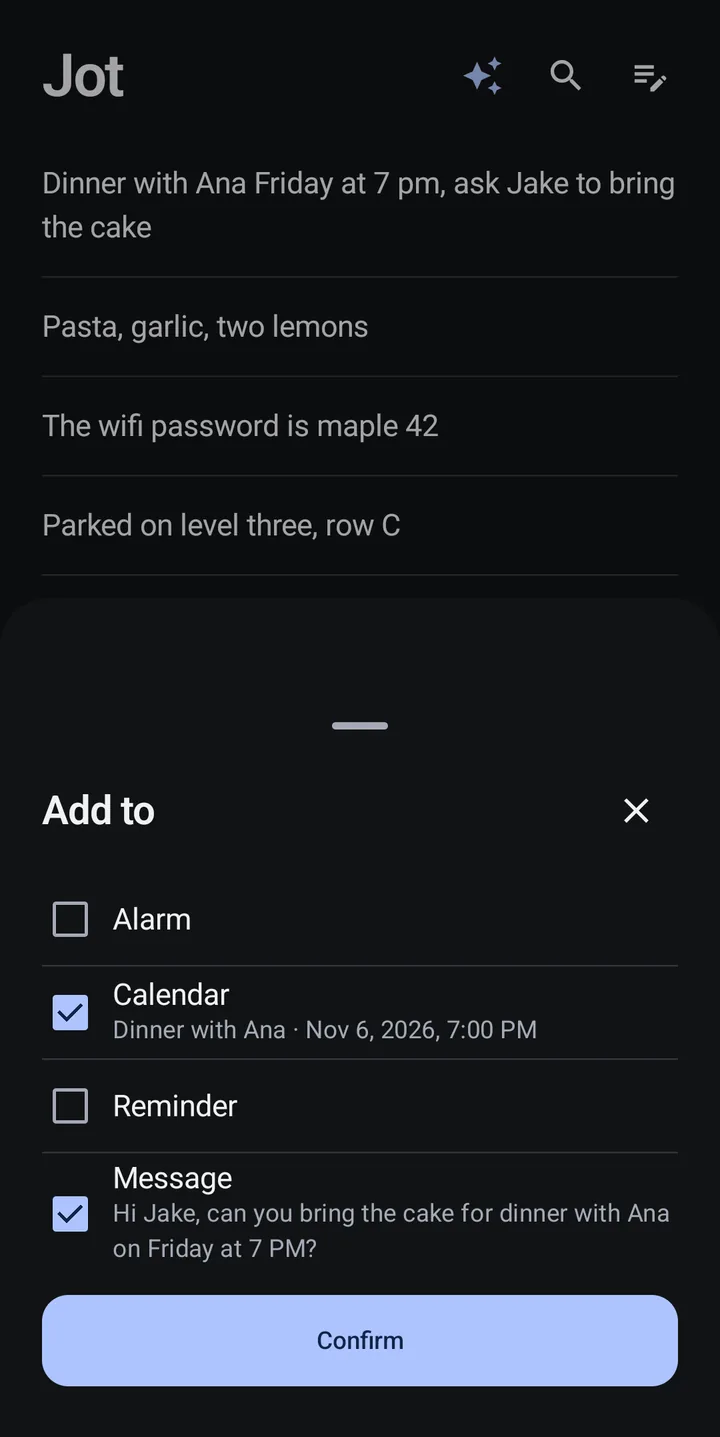
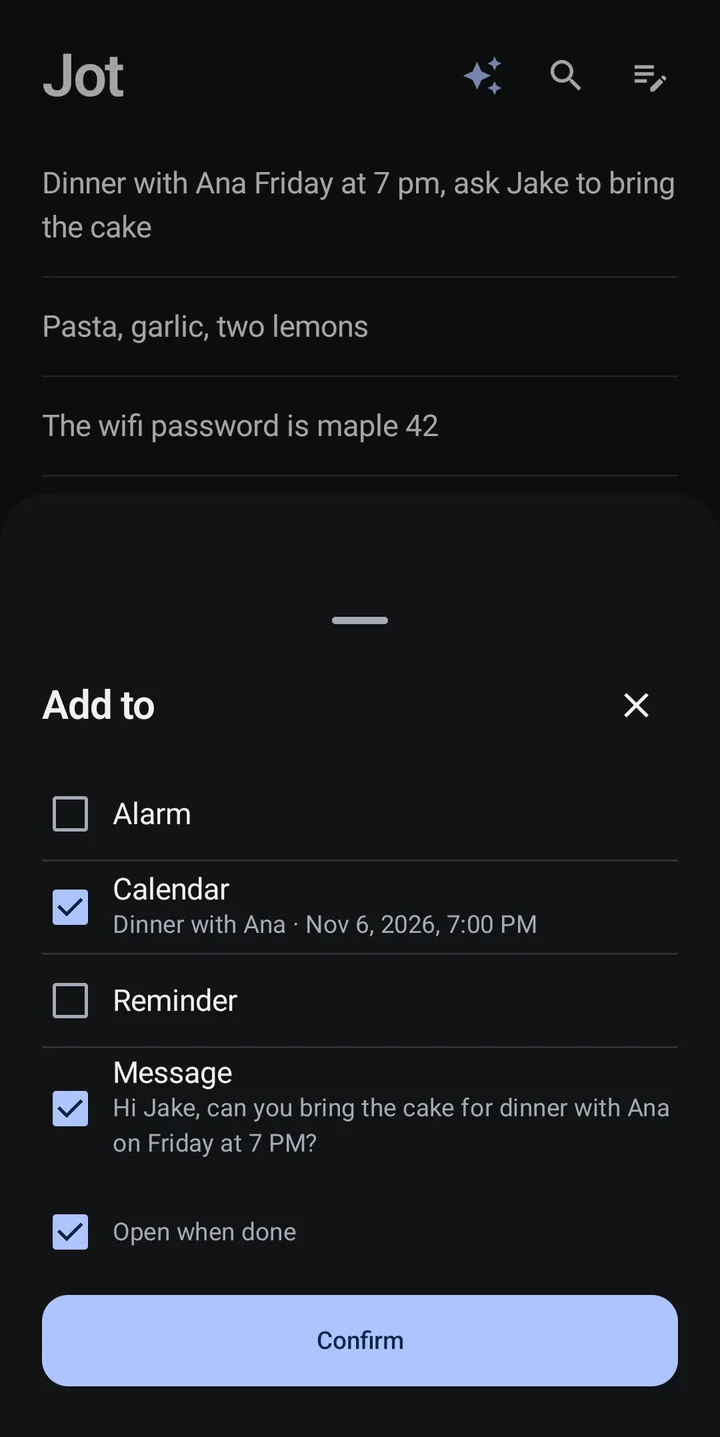
1.2.1: Open when done, and stop leftover fillers silencing the mic
Add a remembered checkbox for opening the result in its app. A filler
line could outlive a closed note, because the model can't be interrupted,
and then cut off the next question before the mic opened. Closing a
spoken offer now discards it instead of leaving a note.

diff --git a/app/src/androidTest/java/com/jot/app/capture/HandOffTest.kt b/app/src/androidTest/java/com/jot/app/capture/HandOffTest.kt
@@ -10,11 +10,15 @@ import android.provider.ContactsContract
 import android.provider.ContactsContract.CommonDataKinds.Phone
 import android.provider.ContactsContract.CommonDataKinds.StructuredName
 import android.util.Log
+import androidx.compose.ui.test.junit4.createEmptyComposeRule
+import androidx.compose.ui.test.onNodeWithText
+import androidx.compose.ui.test.performClick
 import androidx.test.core.app.ActivityScenario
 import androidx.test.ext.junit.runners.AndroidJUnit4
 import androidx.test.platform.app.InstrumentationRegistry
 import com.jot.app.JotApplication
 import com.jot.app.MainActivity
+import com.jot.app.companion.CompanionState
 import com.jot.app.data.ActionKind
 import com.jot.app.ui.Stage
 import org.junit.After
@@ -23,12 +27,14 @@ import org.junit.Assert.assertTrue
 import org.junit.Assume.assumeFalse
 import org.junit.Assume.assumeTrue
 import org.junit.Before
+import org.junit.Rule
 import org.junit.Test
 import org.junit.runner.RunWith
 
 /** Spoken requests go straight to the action, and Jot lands in the app that holds the result. */
 @RunWith(AndroidJUnit4::class)
 class HandOffTest {
+    @get:Rule val compose = createEmptyComposeRule()
     private val instrument = InstrumentationRegistry.getInstrumentation()
     private val context = instrument.targetContext
     private val controller = (context.applicationContext as JotApplication).controller
@@ -64,6 +70,7 @@ class HandOffTest {
 
     @After fun cleanUp() {
         monitors.forEach(instrument::removeMonitor)
+        main { controller.setOpenWhenDone(true) }
         instrument.uiAutomation.adoptShellPermissionIdentity(android.Manifest.permission.WRITE_CONTACTS)
         added.forEach { context.contentResolver.delete(ContactsContract.RawContacts.CONTENT_URI, "${ContactsContract.RawContacts._ID} = ?", arrayOf(it.toString())) }
         instrument.uiAutomation.dropShellPermissionIdentity()
@@ -82,6 +89,7 @@ class HandOffTest {
     }
     private fun offered(timeout: Long = 90_000) { await("the offer", timeout) { controller.state.value.stage == Stage.ACTIONS && !controller.state.value.thinking } }
     private fun answer(words: String) {
+        await("Jot to speak") { VoiceSignals.state.value.speaking }
         await("Jot to finish and listen") { !VoiceSignals.state.value.speaking && VoiceSignals.state.value.capturing }
         VoiceSignals.emit(VoiceEvent.Utterance(words))
     }
@@ -98,6 +106,48 @@ class HandOffTest {
             assertEquals(1, set.hits)
             await("home") { controller.state.value.stage == Stage.HOME }
             assertEquals("Alarm set", controller.state.value.message)
+        }
+    }
+
+    @Test fun uncheckedStaysInJotAndIsRemembered() {
+        val set = watch(AlarmClock.ACTION_SET_ALARM)
+        val shown = watch(AlarmClock.ACTION_SHOW_ALARMS)
+        say("Set an alarm for 7 AM.") {
+            offered(timeout = 3_000)
+            compose.onNodeWithText("Open when done").performClick()
+            await("the choice") { !controller.state.value.openWhenDone }
+            answer("Yes.")
+            await("the alarm") { set.hits == 1 }
+            await("home") { controller.state.value.stage == Stage.HOME }
+            Thread.sleep(1_000)
+            assertEquals(0, shown.hits)
+        }
+        say("Set an alarm for 8 AM.") {
+            offered(timeout = 3_000)
+            assertEquals(false, controller.state.value.openWhenDone)
+        }
+    }
+
+    @Test fun closingASpokenOfferLeavesNoNote() {
+        say("Set an alarm for 9 AM.") {
+            offered(timeout = 3_000)
+            main { controller.close() }
+            await("home") { controller.state.value.stage == Stage.HOME && !controller.state.value.busy }
+            await("no note") { controller.notes.value.none { it.note.text.contains("9 AM") } }
+        }
+    }
+
+    @Test fun closingWhileThinkingLeavesNothingToSayLater() {
+        assumeTrue(controller.companion.state.value == CompanionState.Ready)
+        say("I need to pick up milk and eggs.") {
+            await("the reading") { controller.state.value.thinking }
+            main { controller.close() }
+            await("home") { controller.state.value.stage == Stage.HOME && !controller.state.value.busy }
+            val end = android.os.SystemClock.elapsedRealtime() + 14_000
+            while (android.os.SystemClock.elapsedRealtime() < end) {
+                assertEquals(false, VoiceSignals.state.value.speaking)
+                Thread.sleep(50)
+            }
         }
     }
 
@@ -175,6 +225,9 @@ class HandOffTest {
     }
 
     @Test fun aNoteWithoutAnActionStillReadsBack() {
-        say("Um.") { await("the question") { VoiceSignals.state.value.speaking || VoiceSignals.state.value.capturing } }
+        say("I need to pick up milk and eggs.") {
+            await("the note", 90_000) { controller.state.value.stage == Stage.NOTE && !controller.state.value.thinking }
+            await("Jot to speak") { VoiceSignals.state.value.speaking }
+        }
     }
 }

diff --git a/app/src/main/java/com/jot/app/JotController.kt b/app/src/main/java/com/jot/app/JotController.kt
@@ -23,11 +23,13 @@ import java.util.UUID
 private const val VOICE_WAIT_MS = 45_000L
 private const val ONE_SEC_AFTER_MS = 2_000L
 private const val ALMOST_AFTER_MS = 10_000L
+private const val KEY_OPEN_WHEN_DONE = "open_when_done"
 
 class JotController(private val context: Context) {
     private val scope = CoroutineScope(SupervisorJob() + Dispatchers.Main.immediate)
     private val store = JotStore.get(context)
     private val androidActions = AndroidActions(context, store)
+    private val prefs = context.getSharedPreferences("jot", Context.MODE_PRIVATE)
     private val mutable = MutableStateFlow(JotUiState())
     val state: StateFlow<JotUiState> = mutable.asStateFlow()
     val notes = store.observeNotes().stateIn(scope, SharingStarted.WhileSubscribed(5000), emptyList())
@@ -37,6 +39,7 @@ class JotController(private val context: Context) {
     private var baseAction: ActionRecord? = null
     private var changingMessage = false
     private var choosingContact = false
+    private var filler: Job? = null
     private val contacts = Contacts(context)
     private var book = emptyList<Contact>()
     private var reveal: Intent? = null
@@ -142,7 +145,13 @@ class JotController(private val context: Context) {
         }.also { reading = it }
     }
 
-    private fun forget() { reading?.cancel(); reading = null; readingKeys.clear(); readingGeneration++; settled = null; touched = false }
+    // The model can't be interrupted, so the reading outlives a closed note. Its filler must not, or it talks over the next one.
+    private fun forget() { filler?.cancel(); reading?.cancel(); reading = null; readingKeys.clear(); readingGeneration++; settled = null; touched = false }
+
+    fun setOpenWhenDone(open: Boolean) {
+        prefs.edit().putBoolean(KEY_OPEN_WHEN_DONE, open).apply()
+        update { copy(openWhenDone = open) }
+    }
 
     private suspend fun loadContacts() { book = withContext(Dispatchers.IO) { contacts.all() } }
 
@@ -173,7 +182,7 @@ class JotController(private val context: Context) {
         }
         if (state.value.stage != Stage.ACTIONS || state.value.note?.id != note.id) return
         val plan = ActionKind.entries.associateWith { formFor(ActionRecord("", note.id, it), note) }
-        update { copy(thinking = false, selected = if (touched) selected else result.actions, plan = plan) }
+        update { copy(thinking = false, selected = if (touched) selected else result.actions, plan = plan, openWhenDone = prefs.getBoolean(KEY_OPEN_WHEN_DONE, true)) }
         val today = LocalDate.now()
         val repeat = JotLines.repeats(TimeParser.repeatDays(note.text))
         if (voice) ask(JotLines.offer(state.value.selected) { kind ->
@@ -192,7 +201,8 @@ class JotController(private val context: Context) {
         draftJob?.cancelAndJoin()
         formJob?.cancelAndJoin()
         if (before.form != null && before.note != null && baseAction?.status == ActionStatus.PENDING) store.saveAction(record(before.form, before.note.id, false))
-        if (before.note?.draft == true) store.deleteNote(before.note.id)
+        val offered = before.stage == Stage.ACTIONS && before.voiceSession && fresh && before.selected.isNotEmpty()
+        if (before.note?.draft == true || offered) before.note?.let { store.deleteNote(it.id) }
         queue.clear(); forget(); choosingContact = false; reveal = null; mutable.value = JotUiState()
         VoiceService.send(context, VoiceService.RESUME_WAKE)
     } }
@@ -256,7 +266,7 @@ class JotController(private val context: Context) {
         }
         val summary = done.joinToString(", ").lowercase().replaceFirstChar { it.uppercase() }.ifEmpty { "Saved" }
         auto = false; done.clear()
-        val destination = reveal
+        val destination = reveal.takeIf { prefs.getBoolean(KEY_OPEN_WHEN_DONE, true) }
         reveal = null
         finish(summary)
         destination?.let { intent -> host(activity)?.let { runCatching { it.startActivity(intent) } } }
@@ -434,12 +444,12 @@ class JotController(private val context: Context) {
                 if (companion.state.value != CompanionState.Ready) { review(text, CompanionText.settle(text, null).actions); return }
                 update { copy(thinking = true) }
                 launch {
-                    val filler = scope.launch {
+                    filler = scope.launch {
                         delay(ONE_SEC_AFTER_MS); VoiceService.send(context, VoiceService.SPEAK_HOLD, JotLines.ONE_SEC)
                         delay(ALMOST_AFTER_MS); VoiceService.send(context, VoiceService.SPEAK_HOLD, JotLines.ALMOST_THERE)
                     }
                     val result = withTimeoutOrNull(VOICE_WAIT_MS) { pending.await() }
-                    filler.cancel()
+                    filler?.cancel()
                     if (state.value.stage != Stage.NOTE) return@launch
                     val unchanged = state.value.text == text
                     val heard = result?.note?.takeIf { unchanged } ?: state.value.text

diff --git a/app/src/main/java/com/jot/app/ui/JotScreen.kt b/app/src/main/java/com/jot/app/ui/JotScreen.kt
@@ -602,6 +602,18 @@ private fun ActionChoices(state: JotUiState, callbacks: JotCallbacks) {
             if (kind != ActionKind.entries.last()) HorizontalDivider()
         }
     }
+    if (!state.thinking && state.selected.any { it != ActionKind.REMINDER }) {
+        Row(
+            modifier = Modifier.fillMaxWidth().heightIn(min = 48.dp)
+                .toggleable(value = state.openWhenDone, enabled = !state.busy, role = Role.Checkbox, onValueChange = callbacks.onOpenWhenDone)
+                .padding(horizontal = 4.dp, vertical = 4.dp),
+            verticalAlignment = Alignment.CenterVertically,
+            horizontalArrangement = Arrangement.spacedBy(12.dp),
+        ) {
+            Checkbox(checked = state.openWhenDone, onCheckedChange = null, enabled = !state.busy)
+            Text("Open when done", style = MaterialTheme.typography.bodyMedium, color = MaterialTheme.colorScheme.onSurfaceVariant)
+        }
+    }
     PrimaryAction(
         if (state.selected.isEmpty()) "Done" else "Confirm",
         enabled = !state.busy,

diff --git a/app/src/test/java/com/jot/app/core/CompanionTextTest.kt b/app/src/test/java/com/jot/app/core/CompanionTextTest.kt
@@ -136,6 +136,14 @@ class CompanionTextTest {
         assertFalse(CompanionText.ready("Dinner with Sam at 7 PM"))
     }
 
+    @Test fun clarksAlarmSentenceIsReadyAtOnce() {
+        for (heard in listOf("Set me an alarm at 6:50 a.m. For my kids to get them off for school.", "Set me an alarm at six fifty a M for my kids to get them off for school.", "Set me an alarm at 4:650 a.m. For my kids to get them off for school.")) {
+            assertTrue(heard, CompanionText.ready(heard))
+            assertEquals(heard, LocalTime.of(6, 50), TimeParser.suggest(heard).time)
+            assertEquals(heard, setOf(ActionKind.ALARM), CompanionText.settle(heard, null).actions)
+        }
+    }
+
     @Test fun aTextToSomeoneJotKnowsNeedsNoModel() {
         val book = listOf(Contact("Mia Rossi", "5551"), Contact("Sam Lee", "5552"), Contact("Sam Carter", "5553"))
         assertTrue(CompanionText.ready("Text Mia that I'm late.", book))

diff --git a/app/src/main/java/com/jot/app/ui/UiModels.kt b/app/src/main/java/com/jot/app/ui/UiModels.kt
@@ -32,6 +32,7 @@ data class JotUiState(
     val answer: String? = null,
     val sources: List<NoteItem> = emptyList(),
     val plan: Map<ActionKind, ActionForm> = emptyMap(),
+    val openWhenDone: Boolean = true,
 )
 data class JotCallbacks(
     val onNew: () -> Unit,
@@ -52,4 +53,5 @@ data class JotCallbacks(
     val onDismissMessage: () -> Unit,
     val onCompanionToggle: (Boolean) -> Unit,
     val onKeepQuestion: () -> Unit,
+    val onOpenWhenDone: (Boolean) -> Unit,
 )

diff --git a/app/src/main/java/com/jot/app/MainActivity.kt b/app/src/main/java/com/jot/app/MainActivity.kt
@@ -65,6 +65,7 @@ class MainActivity : ComponentActivity() {
                     onDismissMessage = controller::dismissMessage,
                     onCompanionToggle = controller::setCompanion,
                     onKeepQuestion = controller::keepQuestion,
+                    onOpenWhenDone = controller::setOpenWhenDone,
                 ))
             }
         }

diff --git a/docs/companion.md b/docs/companion.md
@@ -28,9 +28,9 @@ For spoken notes, `note` is the text as the user meant it: misheard words fixed,
 
 ## Doing the actions
 
-A spoken request with an action skips the note review and goes straight to the offer, which already says what Jot heard. Yes acts on it, no starts the sentence again, and cancel throws it away.
+A spoken request with an action skips the note review and goes straight to the offer, which already says what Jot heard. Yes acts on it, no starts the sentence again, and cancel or closing it throws it away.
 
-On confirm, each selected action runs if its details are complete, and only a gap opens a form: an alarm goes straight to Clock, an event straight into the primary writable calendar, a reminder into Android's alarm scheduler, and a message to the contact as a text. Jot then opens the alarm list, the event or the conversation. If two contacts fit, Jot asks which one. Without SMS access, Messages opens with the person and the words filled in. Without calendar access, Calendar opens filled in.
+On confirm, each selected action runs if its details are complete, and only a gap opens a form: an alarm goes straight to Clock, an event straight into the primary writable calendar, a reminder into Android's alarm scheduler, and a message to the contact as a text. Jot then opens the alarm list, the event or the conversation, unless **Open when done** is unchecked, which it remembers. If two contacts fit, Jot asks which one. Without SMS access, Messages opens with the person and the words filled in. Without calendar access, Calendar opens filled in.
 
 A new note used for actions is marked `actionOnly`. It leaves the notes list once nothing is waiting on it, and stays searchable by the companion.
 

diff --git a/README.md b/README.md
@@ -4,7 +4,7 @@ Voice notes that become alarms, events, reminders and messages.
 
 **[Download Jot.apk](https://github.com/clark719664/jot/releases/latest/download/Jot.apk)** · [clark719664.github.io/jot](https://clark719664.github.io/jot/)
 
-Say **Hey Jot** and keep talking, or tap the pen and type. Jot works out what you meant, fills in the details, and does it once you confirm: sets the alarm, adds the event, schedules the reminder, or texts the person. Then it takes you to the alarm, event or conversation it made. Ask about your notes and it answers. It talks back in a natural voice that runs on the phone.
+Say **Hey Jot** and keep talking, or tap the pen and type. Jot works out what you meant, fills in the details, and does it once you confirm: sets the alarm, adds the event, schedules the reminder, or texts the person. Then it opens the alarm, event or conversation it made, unless you uncheck **Open when done**. Ask about your notes and it answers. It talks back in a natural voice that runs on the phone.
 
 ## Install
 
